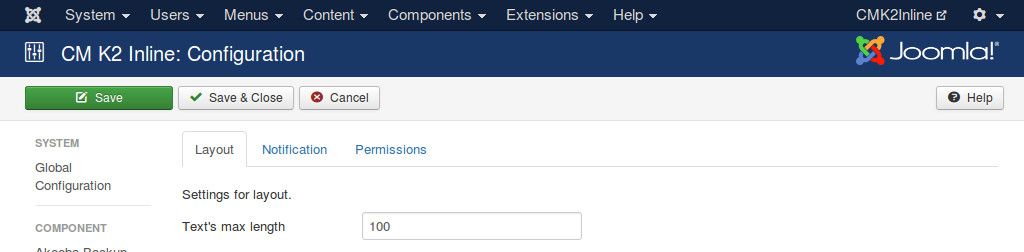
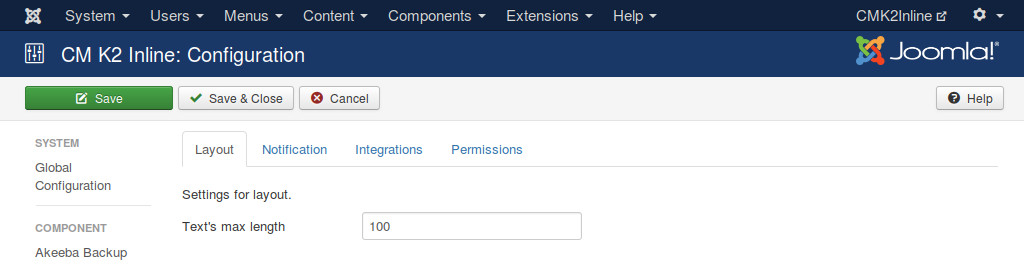
1.2.0

diff --git a/conf.py b/conf.py
@@ -55,9 +55,9 @@ author = u'CMExtension'
 # built documents.
 #
 # The short X.Y version.
-version = '1.1.0'
+version = '1.2.0'
 # The full version, including alpha/beta/rc tags.
-release = '1.1.0'
+release = '1.2.0'
 
 # The language for content autogenerated by Sphinx. Refer to documentation
 # for a list of supported languages.

diff --git a/pages/additionalcategories.rst b/pages/additionalcategories.rst
@@ -1,0 +1,21 @@
+========================================
+Additional Categories for K2 integration
+========================================
+
+By default K2 only allows us to add an item to 1 category. Additional Categories for K2 plugin helps us to add K2 item to many categories. You can download and find out more about this plugin at `http://www.netpin.gr/extensions/item/1-k2-additonal-categories <http://www.netpin.gr/extensions/item/1-k2-additonal-categories>`_.
+
+CMK2Inline has an integration with Additional Categories for K2 to edit additional categories inline right in K2 item list.
+
+To enable this integration you need to install Additional Categories for K2 plugin, set "K2 Additional Categories plugin" option to "Enabled" in CMK2Inline configuration.
+
+.. image:: ../images/configuration_integrations.jpg
+
+Go to CMK2Inline's Columns, enable "K2 Additionl Categories plugin" column and move it to where you want to display it.
+
+.. image:: ../images/additionalcategories_01.jpg
+
+Go to CMK2Inline's Columns, enable "K2 Additionl Categories plugin" column and move it to where you want to display it.
+
+The column for displaying and editing additional categories are displayed now in K2 item list.
+
+.. image:: ../images/additionalcategories_02.jpg

diff --git a/pages/configuration.rst b/pages/configuration.rst
@@ -11,3 +11,7 @@ Text's Max Length option in Layout tab gives you ability to set how long the tex
 .. image:: ../images/configuration_notification.jpg
 
 There are 2 options that you can configure for notification: the position of notification pop-up and how many seconds it appears on the page.
+
+.. image:: ../images/configuration_integrations.jpg
+
+Integrations tab is where the options for the integrations with other Joomla! extensions are placed. At the present CMK2Inline only integrate with Additional Categories for K2 plugin.

diff --git a/pages/overview.rst b/pages/overview.rst
@@ -24,6 +24,8 @@ Features
   * Date
   * Link
 
+* Integrate with `Additional Categories for K2 plugin <http://www.netpin.gr/extensions/item/1-k2-additonal-categories>`_
+
 Technical Requirements
 ----------------------
 

diff --git a/index.rst b/index.rst
@@ -17,6 +17,7 @@ Contents:
    pages/override
    pages/items
    pages/configuration
+   pages/additionalcategories
    pages/update
    pages/uninstallation
    pages/translation
